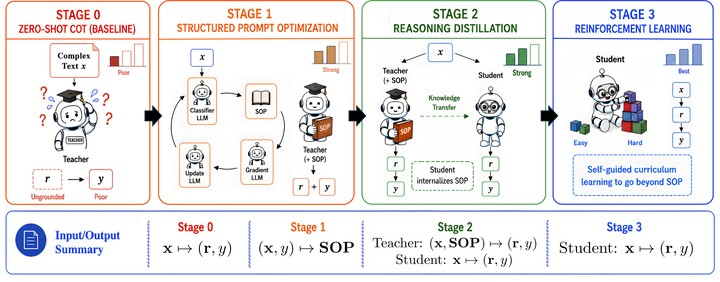
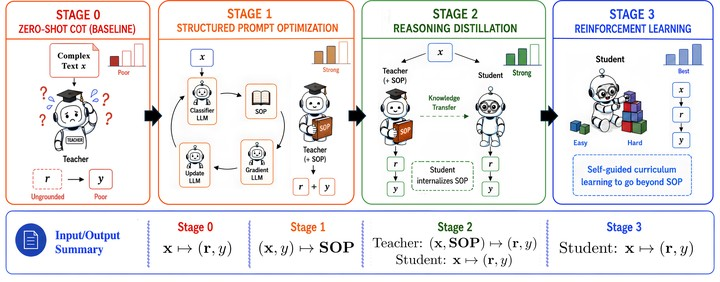
Dual-resolution publication figures: small thumb + 1600px hero
Adds image_hero: frontmatter field on each publication. The list view
shows the small thumb (~65 KB) but its click-through opens the 1600px
hero (~210 KB). The detail page renders the 1600px hero directly so it
stays sharp at modern viewport widths.

Both fallback to image: when image_hero is missing.

Generated from:
- pipeline.pdf (now rendered at 500 DPI -> 6487x2549 source for both sizes)
- conf_survey.png (2752x1536 source for both sizes)

diff --git a/_layouts/single.html b/_layouts/single.html
@@ -52,9 +52,10 @@ layout: default
 
       <section class="page__content" itemprop="text">
         {% if page.collection == 'publications' and page.image %}
+          {% assign pub_hero = page.image_hero | default: page.image %}
           <p class="pub-detail-figure">
-            <a href="{{ page.image | prepend: base_path }}" target="_blank" rel="noopener" title="Open figure">
-              <img src="{{ page.image | prepend: base_path }}" alt="" />
+            <a href="{{ pub_hero | prepend: base_path }}" target="_blank" rel="noopener" title="Open figure">
+              <img src="{{ pub_hero | prepend: base_path }}" alt="" />
             </a>
           </p>
         {% endif %}

diff --git a/_includes/archive-single.html b/_includes/archive-single.html
@@ -27,8 +27,9 @@
     {% endif %}
 
     {% if post.collection == 'publications' and post.image %}
+      {% assign pub_hero = post.image_hero | default: post.image %}
       <div class="pub-thumb">
-        <a href="{{ post.image | prepend: base_path }}" target="_blank" rel="noopener" title="Open figure"><img src="{{ post.image | prepend: base_path }}" alt=""></a>
+        <a href="{{ pub_hero | prepend: base_path }}" target="_blank" rel="noopener" title="Open figure"><img src="{{ post.image | prepend: base_path }}" alt="" loading="lazy"></a>
       </div>
     {% endif %}
 

diff --git a/_publications/2026-04-01-confidence-as-control.md b/_publications/2026-04-01-confidence-as-control.md
@@ -9,5 +9,6 @@ date: 2026-04-01
 venue: ""
 paperurl: "https://www.researchgate.net/publication/401801705_Confidence_as_Control_A_Survey_of_Confidence_Utilization_in_Large_Language_Models"
 image: "/images/papers/confidence-as-control.jpg"
+image_hero: "/images/papers/confidence-as-control-hero.jpg"
 citation: "Yubo Li, <strong>Tianyang Zhou</strong>, Xiaobin Shen, Yidi Miao, Rema Padman, Ramayya Krishnan."
 ---

diff --git a/_publications/2026-05-27-extc-structured-prompt-rl.md b/_publications/2026-05-27-extc-structured-prompt-rl.md
@@ -9,5 +9,6 @@ date: 2026-05-27
 venue: "arXiv"
 paperurl: "https://arxiv.org/abs/2605.29076"
 image: "/images/papers/extc-pipeline.jpg"
+image_hero: "/images/papers/extc-pipeline-hero.jpg"
 citation: "<strong>Tianyang Zhou</strong>, Wenbo Chen, Pierre Jinghong Liang, Leman Akoglu."
 ---
